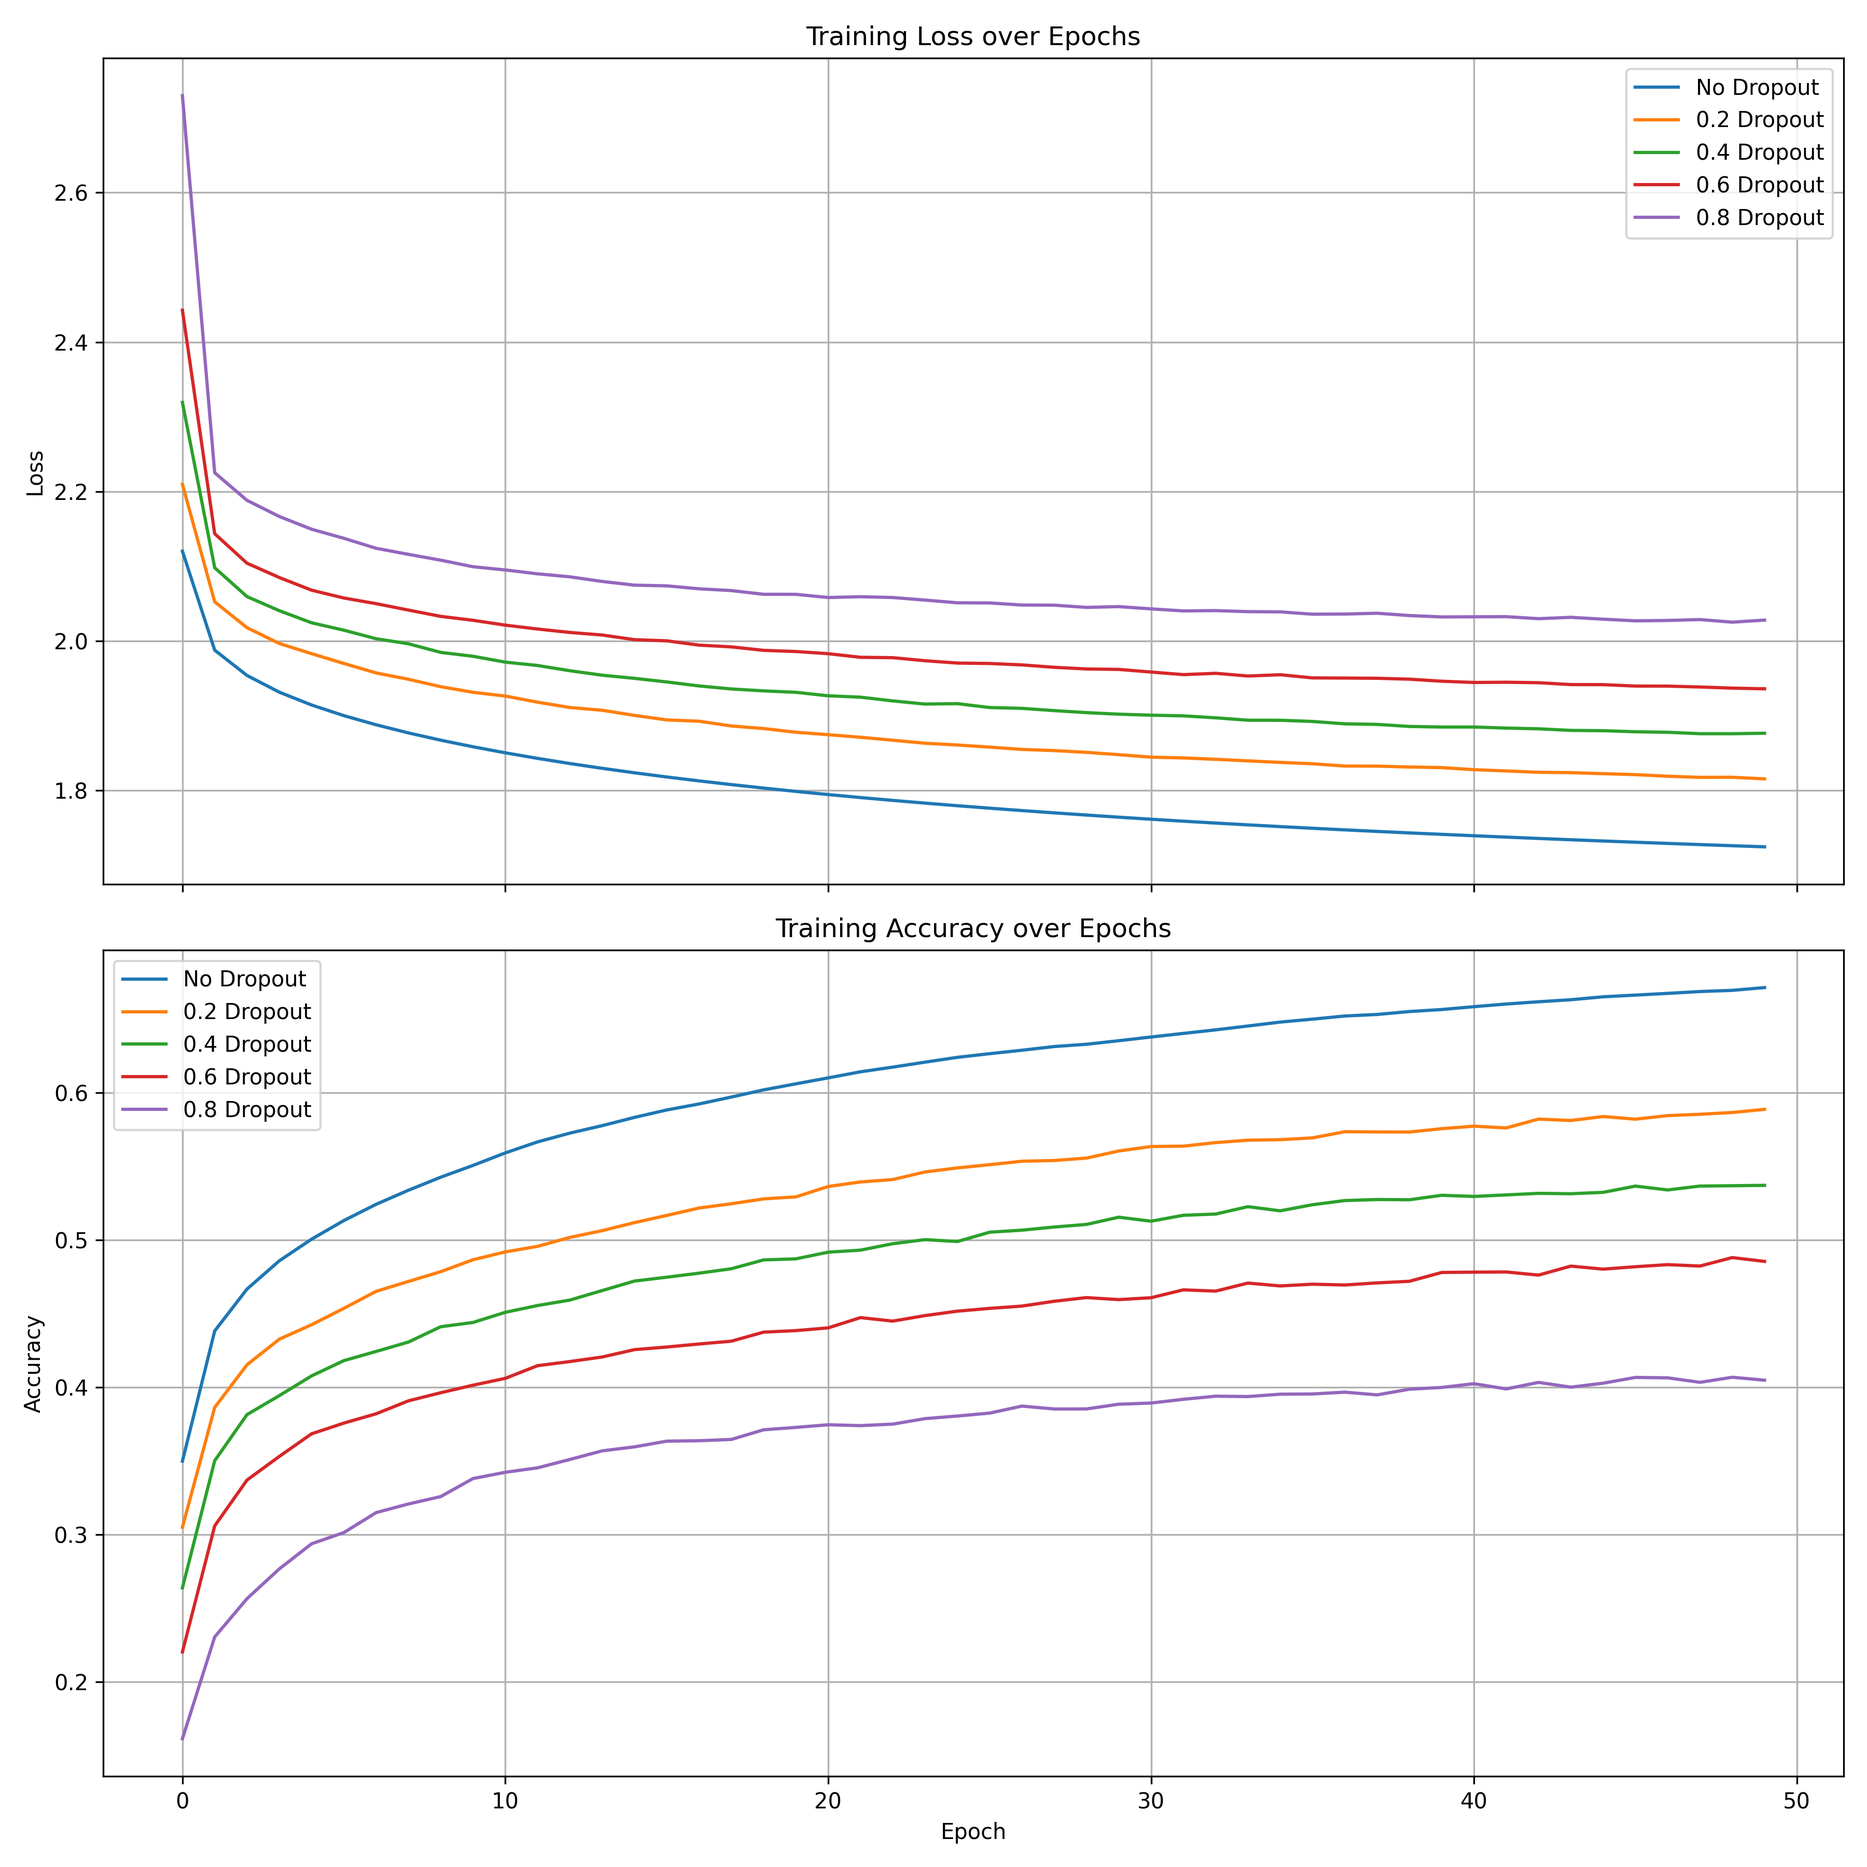
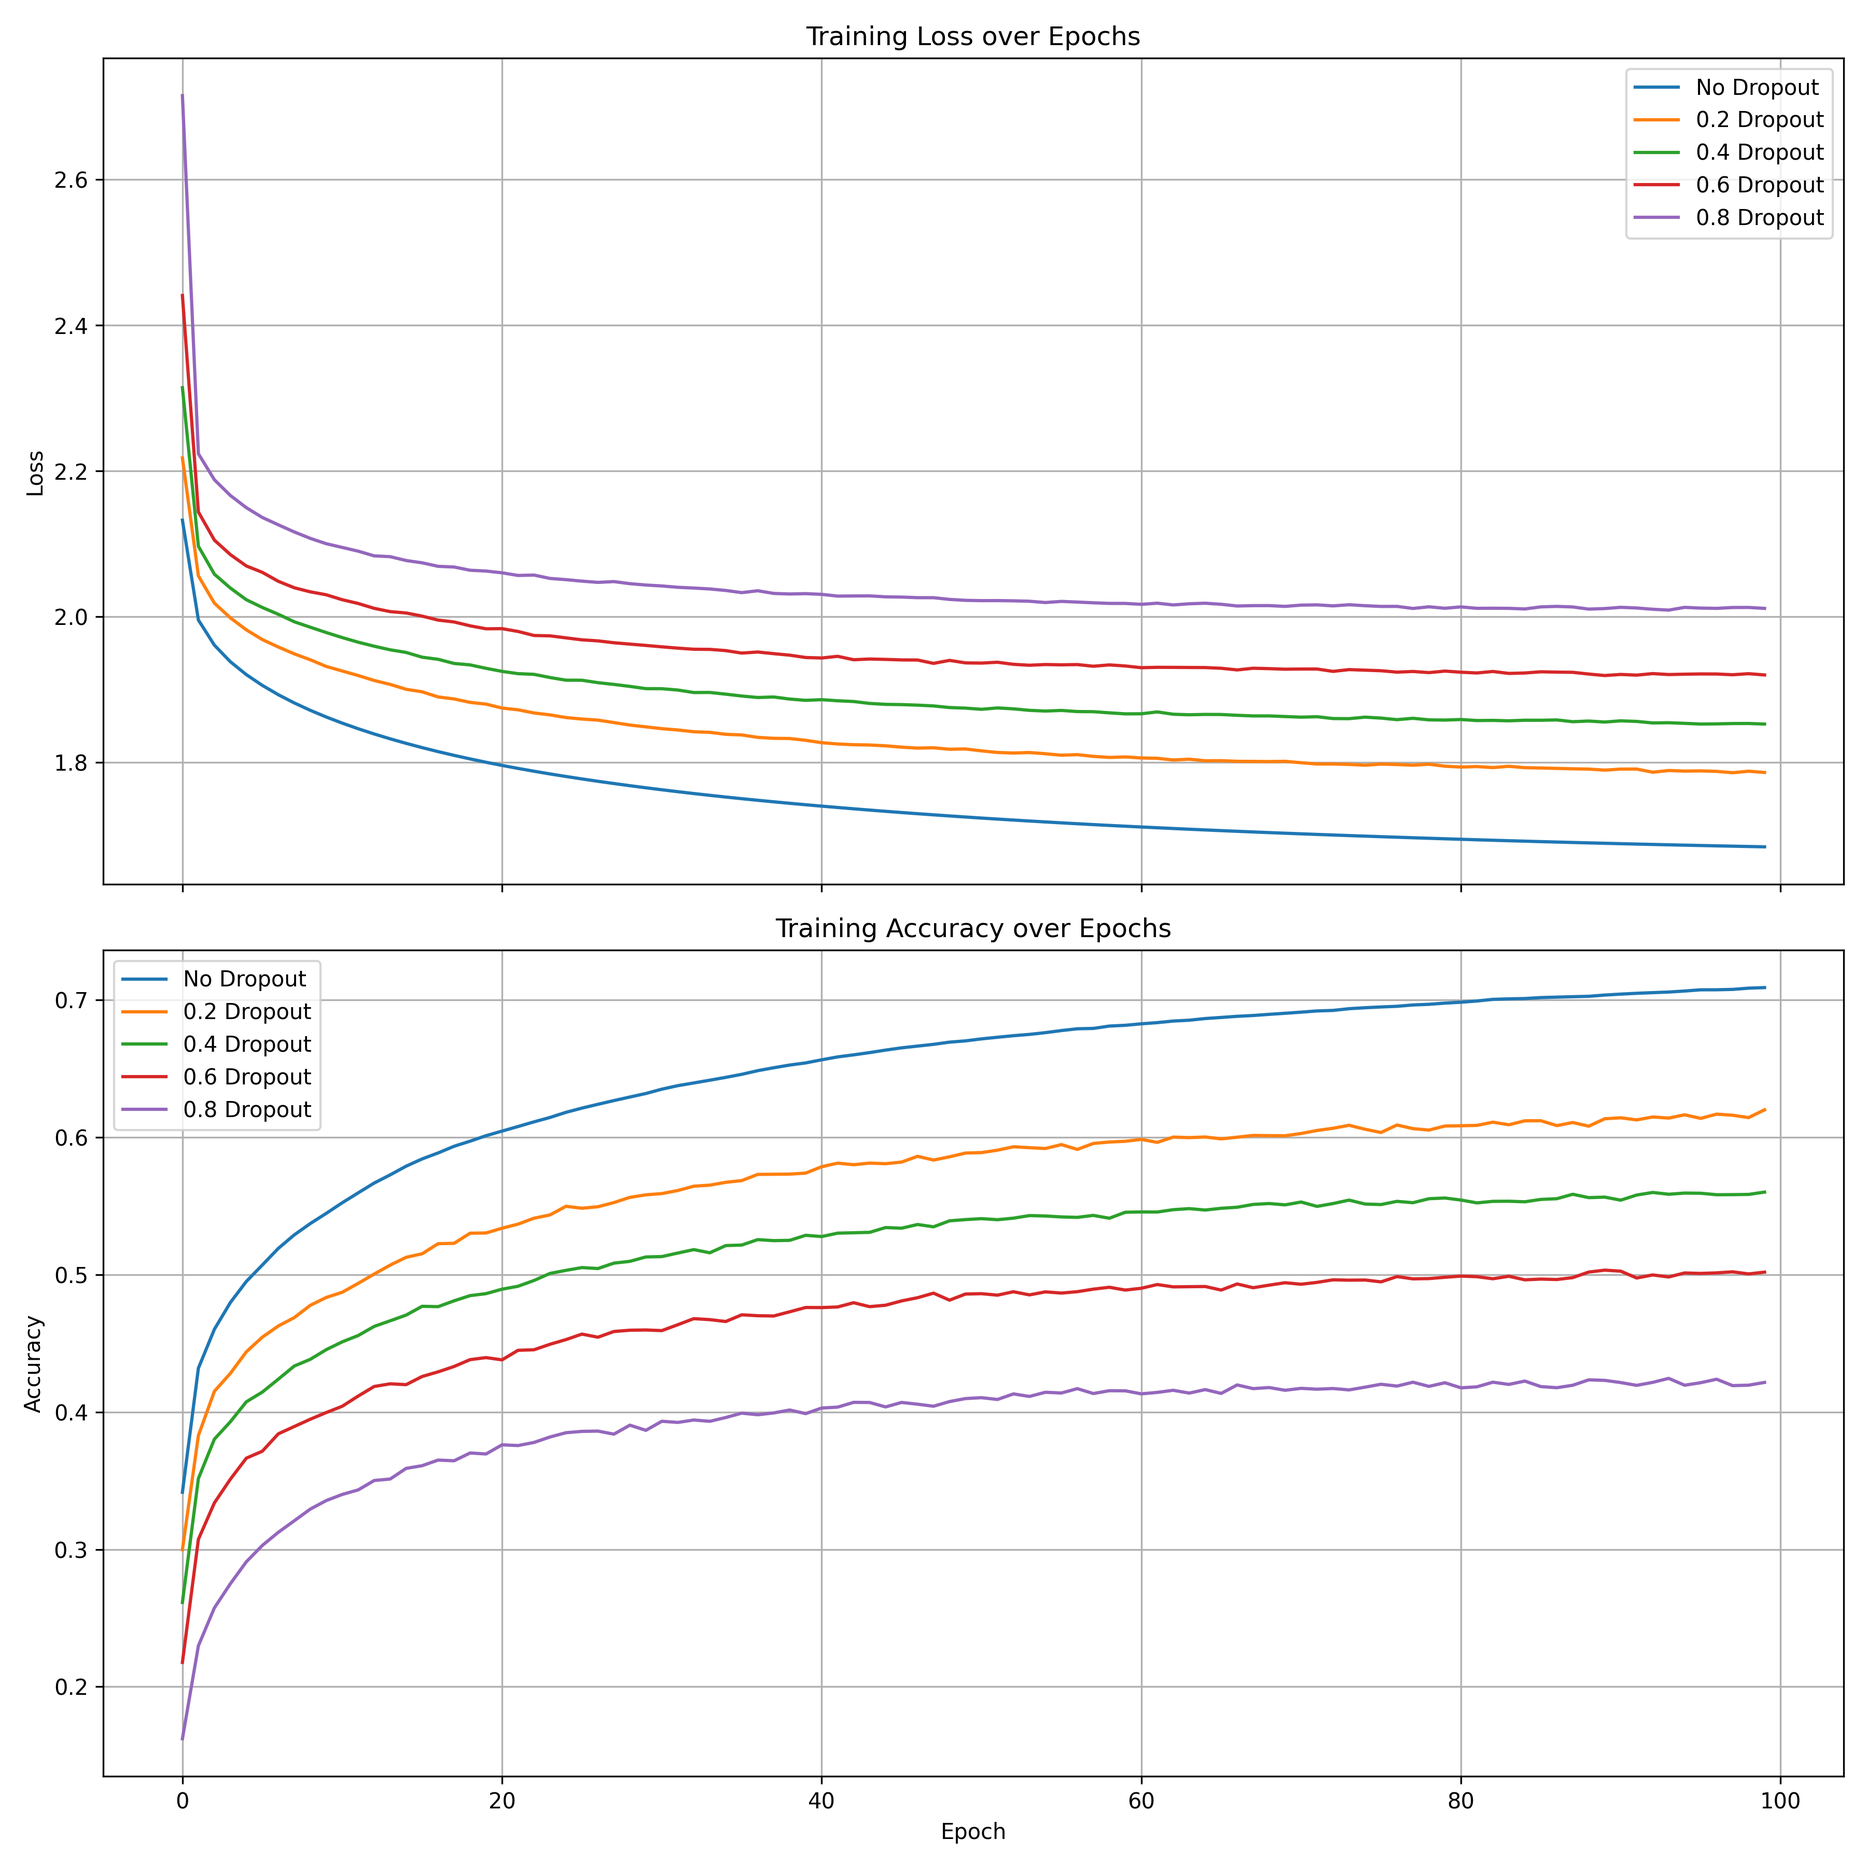
fixed batch normalisation

diff --git a/experiments/train_util.py b/experiments/train_util.py
@@ -1,6 +1,7 @@
 import csv
 import sys
 import os
+import time
 
 sys.path.append(os.path.abspath(os.path.join(os.path.dirname(__file__), "..")))
 
@@ -15,15 +16,19 @@ from util import BatchGenerator
 def train_loop(
     X_train, y_train, X_test, y_test, epochs, batch_size, model, optimiser, loss_fn
 ):
+    # Define a training loop to be used by a model, which conducts both training and testing of the model
     batches = BatchGenerator(X_train, y_train, batch_size=batch_size)
 
     train_loss_lst = []
     train_acc_lst = []
+    start_time = time.time()
 
+    # Training loop
     for epoch in tqdm(range(epochs)):
         train_loss = 0
         train_accuracy = 0
         model.train(True)
+        # For each batch, produce a prediction and calculate the loss
         for X_batch, y_batch in batches:
             optimiser.zero_grad()
             logits = model(X_batch)
@@ -37,28 +42,37 @@ def train_loop(
         if optimiser.name == 'Adam':
             optimiser.iterations += 1
         
+        # Calculate the training loss and accuracy
+
         train_loss /= len(batches)
         train_accuracy /= len(batches)
 
         train_loss_lst.append(train_loss)
         train_acc_lst.append(train_accuracy)
 
-        if epoch % 10 == 0:
-            model.train(False)
-            test_logits = model(X_test)
-            test_loss = loss_fn(test_logits, y_test).val.item()
-            test_accuracy = np.mean(np.argmax(test_logits.val, axis=1) == y_test.val)
-            tqdm.write(
-                f"Epoch {epoch}, "
-                f"Train Loss: {train_loss:.4f}, "
-                f"Train Accuracy: {train_accuracy:.2%}, "
-                f"Test Loss: {test_loss:.4f},"
-                f"Test Accuracy: {test_accuracy:.2%}"
-            )
+    # Note the time taken to train
+    training_time = time.time() - start_time
+
+    # After training is completed, test the model to see how well it performs
+    start_time = time.time()
+    model.train(False)
+    test_logits = model(X_test)
+    inference_time = time.time() - start_time
+    test_loss = loss_fn(test_logits, y_test).val.item()
+    test_accuracy = np.mean(np.argmax(test_logits.val, axis=1) == y_test.val)
+    tqdm.write(
+        f"Epoch {epoch}, "
+        f"Train Loss: {train_loss:.4f}, "
+        f"Train Accuracy: {train_accuracy:.2%}, "
+        f"Test Loss: {test_loss:.4f},"
+        f"Test Accuracy: {test_accuracy:.2%}"
+    )
+
+    # Reset the optimiser if necessary
     if optimiser.name == 'Adam':
         optimiser.iterations = 1
 
-    return train_loss_lst, train_acc_lst, test_loss, test_accuracy
+    return train_loss_lst, train_acc_lst, test_loss, test_accuracy, training_time, inference_time
 
 
 def plot_losses_and_accuracies(
@@ -93,7 +107,7 @@ def plot_losses_and_accuracies(
 
 
 def plot_losses(filename, model_labels, training_losses):
-    # Plotting
+    # Plotting training lossses across the number of epochs trained for each of the different model types
     plt.figure(figsize=(10, 6))
     for i, losses in enumerate(training_losses):
         label = model_labels[i] if i < len(model_labels) else f"Model {i}"
@@ -110,7 +124,8 @@ def plot_losses(filename, model_labels, training_losses):
     plt.close()
 
 
-def save_loss_accuracy(filename, labels, train_loss, train_acc, losses, accuracies):
+def save_loss_accuracy(filename, labels, train_loss, train_acc, losses, accuracies, training_time, inference_time):
+    # Produce a CSV which contains the training and test losses and accuracies, as well as the training and inference times
     with open(f"{filename}.csv", "w", newline="") as csvfile:
         writer = csv.writer(csvfile)
         writer.writerow(
@@ -120,9 +135,11 @@ def save_loss_accuracy(filename, labels, train_loss, train_acc, losses, accuraci
                 "Training Accuracy",
                 "Test Loss",
                 "Test Accuracy",
+                "Training time (seconds)",
+                "Inference time (seconds)"
             ]
         )
-        for label, t_loss, t_acc, loss, acc in zip(
-            labels, train_loss, train_acc, losses, accuracies
+        for label, t_loss, t_acc, loss, acc, train_time, test_time in zip(
+            labels, train_loss, train_acc, losses, accuracies, training_time, inference_time
         ):
-            writer.writerow([label, t_loss, t_acc, loss, acc])
+            writer.writerow([label, t_loss, t_acc, loss, acc, train_time, test_time])

diff --git a/experiments/hyperparameter.py b/experiments/hyperparameter.py
@@ -1,6 +1,7 @@
 from itertools import product
 import sys
 import os
+import time
 
 import csv
 
@@ -20,6 +21,8 @@ from optimiser import AdamOptimiser, GradientDescentOptimiser
 from tensor import Tensor
 from util import kaiming_uniform, min_max_scale, standard_scale
 from train_util import save_loss_accuracy, train_loop, plot_losses_and_accuracies
+
+# Define all the hyperparameters to test
 
 epochs = [10, 20, 50, 100]
 
@@ -45,12 +48,12 @@ def main():
 
     # Define all sweeps
     sweep_configs = {
-        # "epoch": epochs,
-        # "batch": batches,
-        "normalisation": normalisations
-        # "lr": learning_rates,
-        # "wd": weight_decays,
-        # "optimiser": optimisers
+        "epoch": epochs
+        "batch": batches,
+        "normalisation": normalisations,
+        "lr": learning_rates,
+        "wd": weight_decays,
+        "optimiser": optimisers
     }
 
     for sweep_type, sweep_values in sweep_configs.items():
@@ -61,15 +64,17 @@ def main():
         all_test_accuracy = []
 
         model_labels = []
+        training_times = []
+        inference_times = []
 
         for value in sweep_values:
             # Define the model
             model = Composite(
                 [
-                    Linear(128, 256, initialise=kaiming_uniform),
-                    BatchNormalisation(256),
+                    Linear(128, 192, initialise=kaiming_uniform),
+                    BatchNormalisation(192),
                     LeakyReLU(),
-                    Linear(256, 10, initialise=kaiming_uniform),
+                    Linear(192, 10, initialise=kaiming_uniform),
                 ]
             )
 
@@ -117,7 +122,7 @@ def main():
             loss_fn = CrossEntropyLoss(label_smoothing=0.3)
 
             # Train
-            train_loss_lst, train_acc_lst, test_loss, test_accuracy = train_loop(
+            train_loss_lst, train_acc_lst, test_loss, test_accuracy, training_time, inference_time = train_loop(
                 X_train,
                 y_train,
                 X_test,
@@ -128,6 +133,9 @@ def main():
                 optimiser,
                 loss_fn,
             )
+
+            training_times.append(training_time)
+            inference_times.append(inference_time)
 
             all_training_loss_lst.append(train_loss_lst)
             all_train_acc_lst.append(train_acc_lst)
@@ -146,6 +154,8 @@ def main():
             [x[-1] for x in all_train_acc_lst],
             all_test_loss,
             all_test_accuracy,
+            training_times,
+            inference_times
         )
 
 

diff --git a/experiments/ablation_test.py b/experiments/ablation_test.py
@@ -1,5 +1,6 @@
 import sys
 import os
+import time
 
 sys.path.append(os.path.abspath(os.path.join(os.path.dirname(__file__), "..")))
 
@@ -21,10 +22,10 @@ from train_util import save_loss_accuracy, train_loop, plot_losses_and_accuracie
 # Optimal model for reference
 optimal_model = Composite(
     [
-        Linear(128, 256, initialise=kaiming_uniform),
-        BatchNormalisation(256),
+        Linear(128, 192, initialise=kaiming_uniform),
+        BatchNormalisation(192),
         LeakyReLU(),
-        Linear(256, 10, initialise=kaiming_uniform),
+        Linear(192, 10, initialise=kaiming_uniform),
     ]
 )
 
@@ -47,16 +48,16 @@ def main():
         ),
         "No activation": Composite(
             [
-                Linear(128, 256, initialise=kaiming_uniform),
-                BatchNormalisation(256),
-                Linear(256, 10, initialise=kaiming_uniform),
+                Linear(128, 192, initialise=kaiming_uniform),
+                BatchNormalisation(192),
+                Linear(192, 10, initialise=kaiming_uniform),
             ]
         ),
         "No batch normalisation": Composite(
             [
-                Linear(128, 256, initialise=kaiming_uniform),
+                Linear(128, 192, initialise=kaiming_uniform),
                 LeakyReLU(),
-                Linear(256, 10, initialise=kaiming_uniform),
+                Linear(192, 10, initialise=kaiming_uniform),
             ]
         )
     }
@@ -66,6 +67,9 @@ def main():
 
     all_test_loss = []
     all_test_accuracy = []
+
+    training_times = []
+    inference_times = []
 
     model_labels = list(sweep_configs.keys())
 
@@ -84,7 +88,7 @@ def main():
         loss_fn = CrossEntropyLoss(label_smoothing=0.3)
 
         # Train
-        train_loss_lst, train_acc_lst, test_loss, test_accuracy = train_loop(
+        train_loss_lst, train_acc_lst, test_loss, test_accuracy, training_time, inference_time = train_loop(
             X_train,
             y_train,
             X_test,
@@ -95,6 +99,9 @@ def main():
             optimiser_current,
             loss_fn,
         )
+
+        training_times.append(training_time)
+        inference_times.append(inference_time)
 
         all_training_loss_lst.append(train_loss_lst)
         all_train_acc_lst.append(train_acc_lst)
@@ -113,6 +120,8 @@ def main():
         [x[-1] for x in all_train_acc_lst],
         all_test_loss,
         all_test_accuracy,
+        training_times,
+        inference_times
     )
 
 if __name__ == "__main__":

diff --git a/experiments/all_experiments.py b/experiments/all_experiments.py
@@ -1,5 +1,6 @@
 import sys
 import os
+import time
 
 sys.path.append(os.path.abspath(os.path.join(os.path.dirname(__file__), "..")))
 
@@ -299,12 +300,12 @@ batchnorm_labels = ["With Batch Normalisation", "Without Batch Normalisation"]
 
 
 experiments = [
-    [depth_models, depth_labels],
+    [depth_models, depth_labels]
     [width_models, width_labels],
     [dropout_models, dropout_labels],
     [dropout_3l_models, dropout_3l_labels],
     [activation_models, activation_labels],
-    [batchnorm_models, batchnorm_labels],
+    [batchnorm_models, batchnorm_labels]
 ]
 
 folders = [
@@ -324,19 +325,22 @@ def run_experiment(folder, models, model_labels):
     all_test_loss = []
     all_test_accuracy = []
 
+    training_times = []
+    inference_times = []
+
     for model in models:
         X_train = Tensor(standard_scale(np.load("../data/train_data.npy")))
         y_train = Tensor(np.load("../data/train_label.npy").squeeze())
         X_test = Tensor(standard_scale(np.load("../data/test_data.npy")))
         y_test = Tensor(np.load("../data/test_label.npy").squeeze())
 
-        epochs = 50
+        epochs = 100
         batch_size = 64
 
         optimiser = AdamOptimiser(model.get_all_tensors(), weight_decay=1e-5)
         loss_fn = CrossEntropyLoss(label_smoothing=0.3)
 
-        train_loss_lst, train_acc_lst, test_loss, test_accuracy = train_loop(
+        train_loss_lst, train_acc_lst, test_loss, test_accuracy, training_time, inference_time = train_loop(
             X_train,
             y_train,
             X_test,
@@ -347,6 +351,9 @@ def run_experiment(folder, models, model_labels):
             optimiser,
             loss_fn,
         )
+
+        training_times.append(training_time)
+        inference_times.append(inference_time)
 
         all_training_loss_lst.append(train_loss_lst)
         all_train_acc_lst.append(train_acc_lst)
@@ -364,6 +371,8 @@ def run_experiment(folder, models, model_labels):
         [x[-1] for x in all_train_acc_lst],
         all_test_loss,
         all_test_accuracy,
+        training_times,
+        inference_times
     )
 
 

diff --git a/layer.py b/layer.py
@@ -176,11 +176,23 @@ class BatchNormalisation(Layer):
         self.epsilon = epsilon
         self.weights = Tensor(np.ones((1, features)), True)
         self.bias = Tensor(np.zeros((1, features)), True)
+        self.averages = np.zeros((1, features))
+        self.variances = np.zeros((1, features))
+        self.num_examples = 0
 
     def forward(self, x) -> Tensor:
-        mu = np.mean(x.val, axis=0)
-        sigma_squared = np.var(x.val, axis=0)
         batch_size = len(x.val)
+        if self.training:
+            # if we are training, we need to store a running mean and variance of the values
+            mu = np.mean(x.val, axis=0)
+            self.averages = ((self.averages * self.num_examples) + np.sum(x.val, axis=0)) / (self.num_examples + batch_size)
+            sigma_squared = np.var(x.val, axis=0)
+            self.variances = ((self.variances * self.num_examples) + (np.var(x.val, axis=0) * batch_size)) / (self.num_examples + batch_size)
+            self.num_examples += batch_size
+        else:
+            mu = self.averages
+            sigma_squared = self.variances
+        
         normalised_data = (x.val - mu) / np.sqrt(sigma_squared + self.epsilon)
         # We do an elementwise multiplication here with the weights because normalised data is a tensor containing multiple input samples
         # Therefore, we want to multiply the weight array with each respective column in the tensor

diff --git a/blobs_demo.py b/blobs_demo.py
@@ -1,7 +1,7 @@
 import numpy as np
 from sklearn.datasets import make_blobs
 
-from layer import Composite, CrossEntropyLoss, Dropout, Linear, ReLU, Softmax, BatchNormalisation
+from layer import Composite, CrossEntropyLoss, Dropout, Linear, ReLU, BatchNormalisation
 from optimiser import AdamOptimiser
 from tensor import Tensor
 from util import BatchGenerator, train_test_split, xavier_uniform
